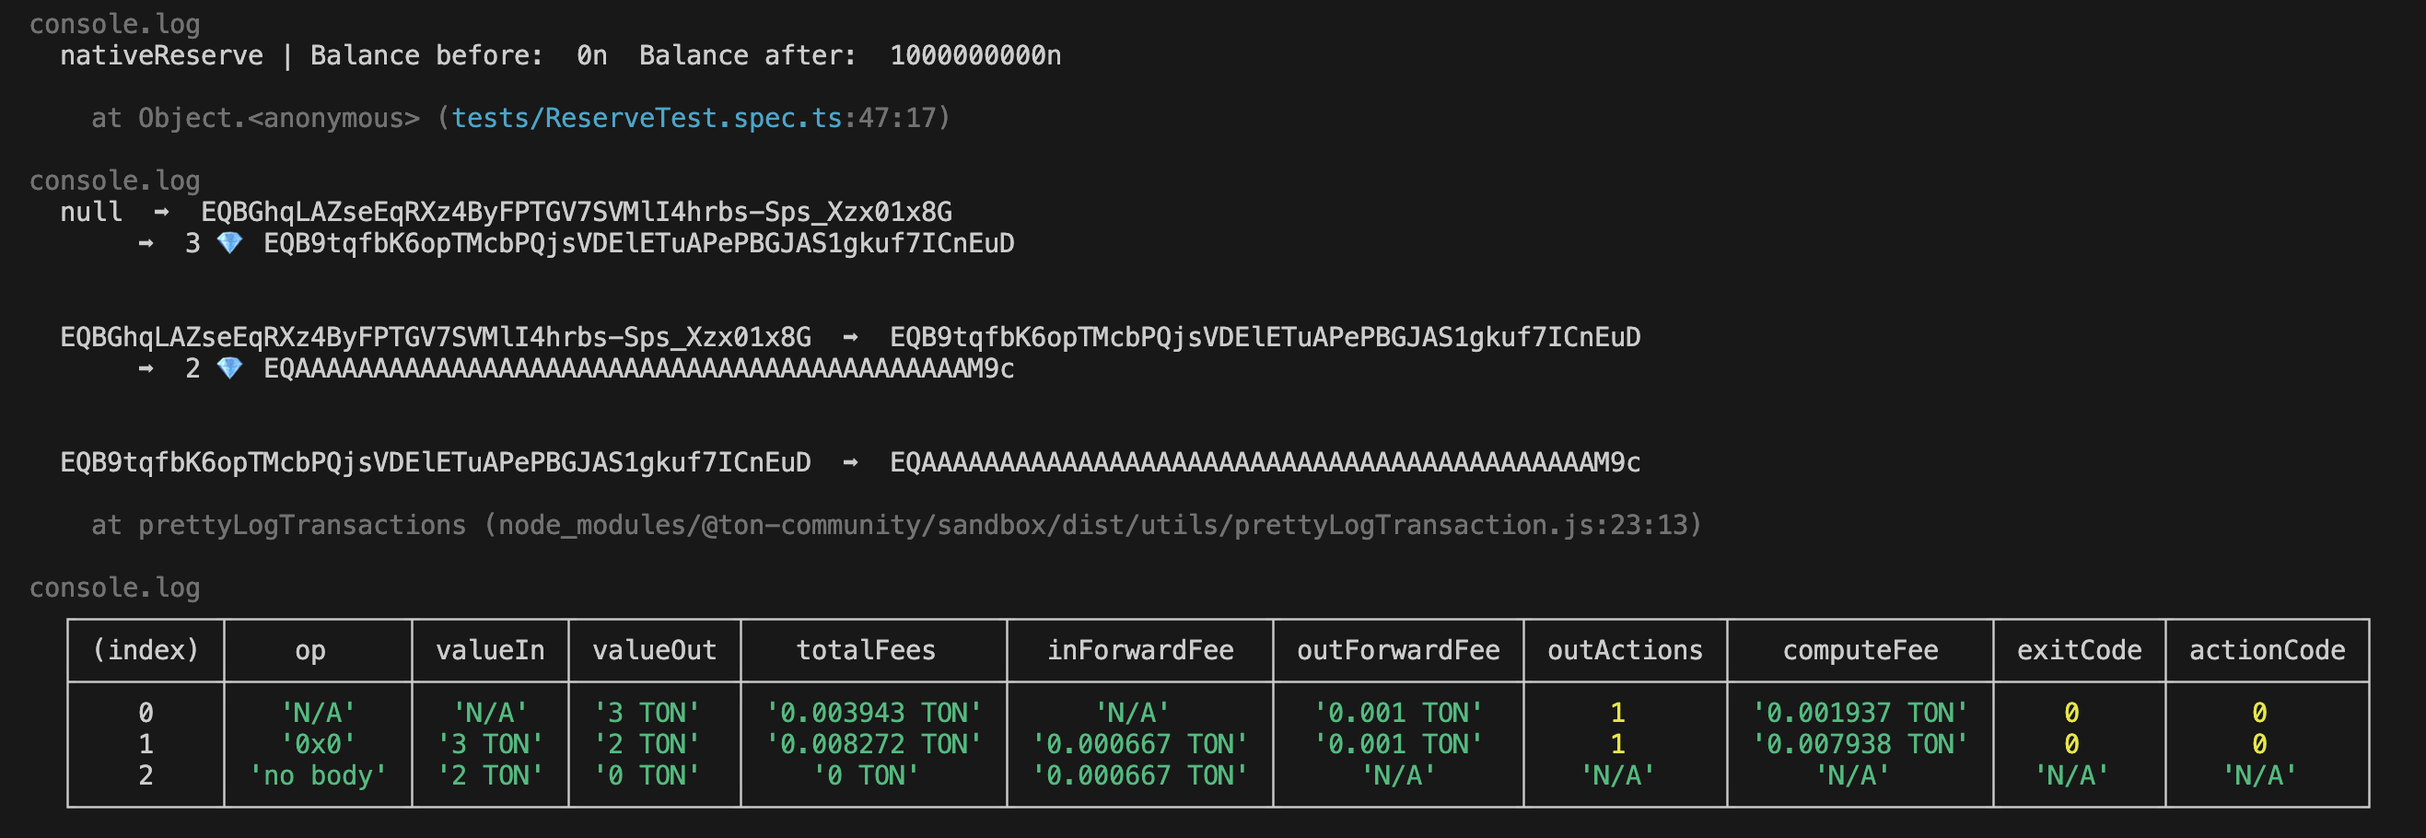
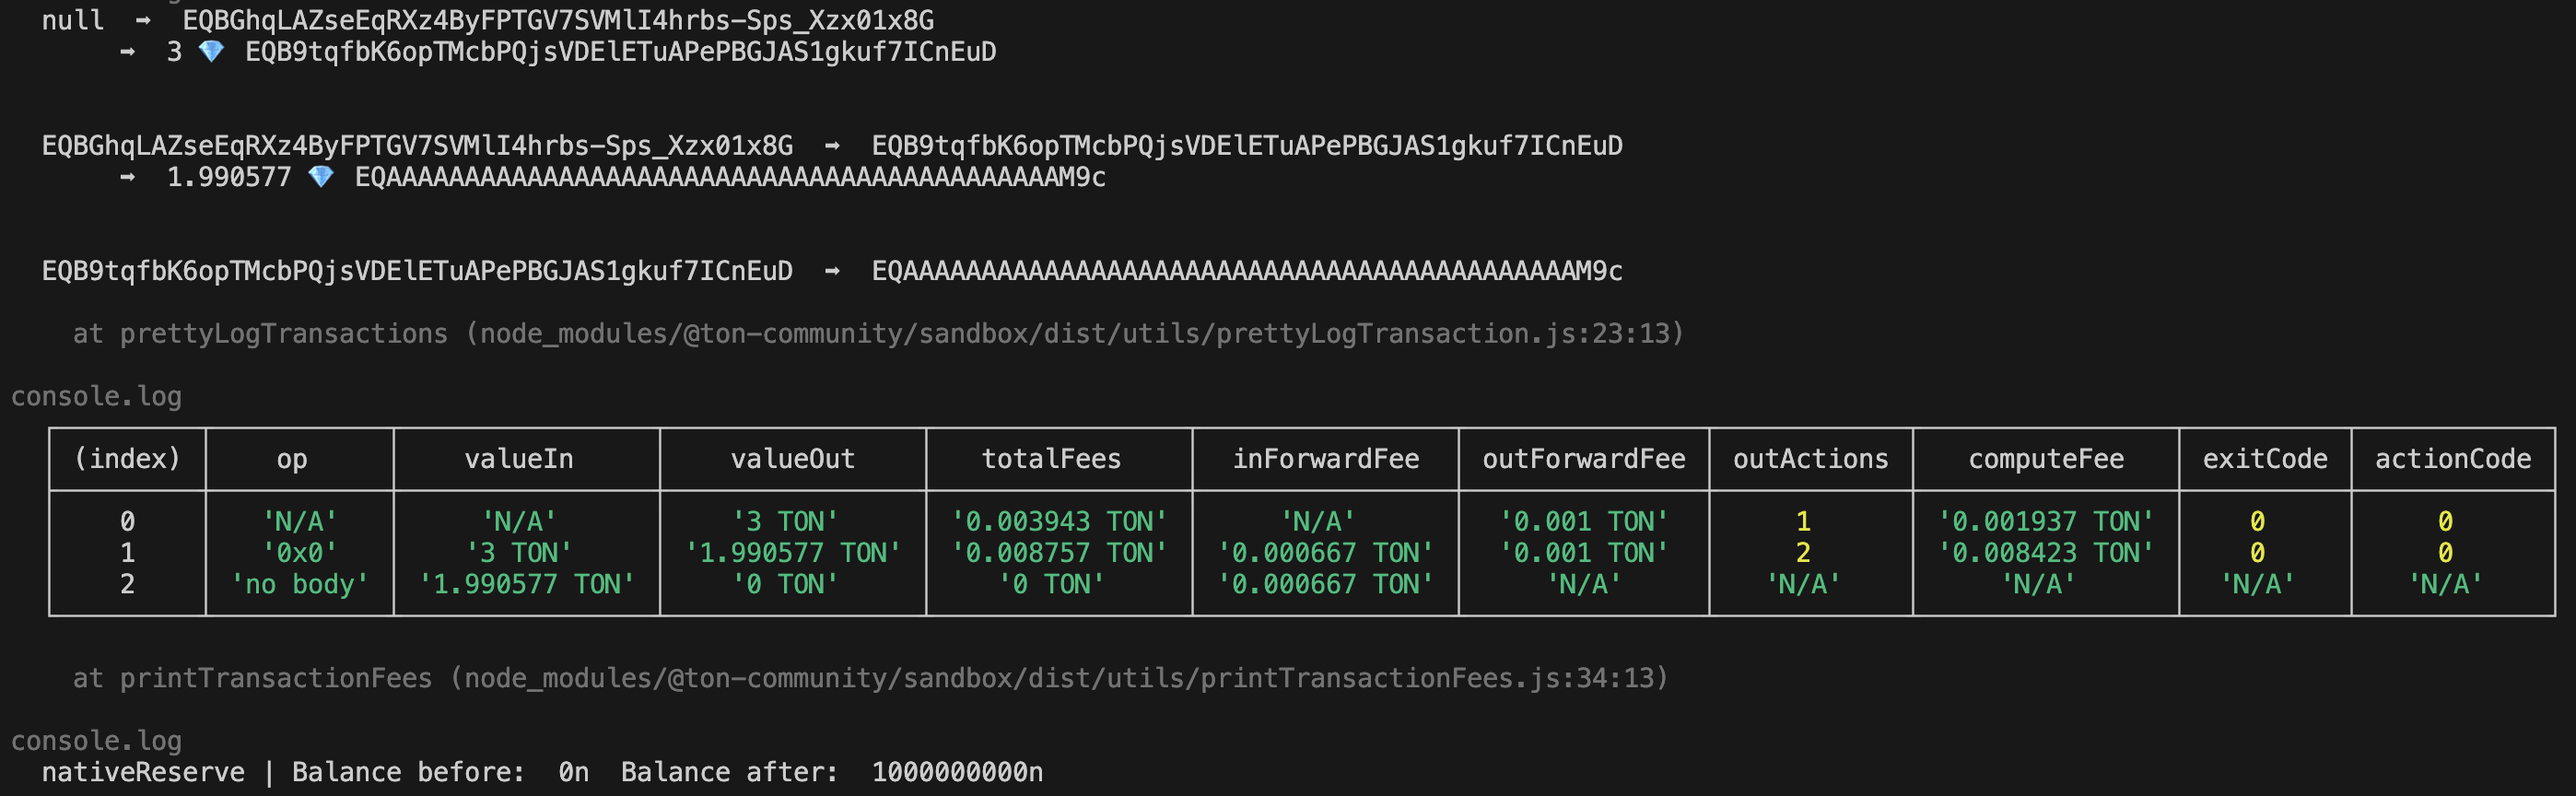
Fix gas calculation and update image file name

Changed region(s): [[0.0, 0.4688, 0.9962, 1.0], [0.0, 0.125, 0.6849, 0.4688], [0.0, 0.0, 0.4358, 0.0938]]

diff --git a/README.md b/README.md
@@ -1,10 +1,11 @@
 # Native Reserve v.s. Directly dwindle from Context
 
-- Native Reserve (gas: 0.00394+0.008757= **0.012697 (expensive)**)
+- Native Reserve (total gas: **0.003943 + 0.008757 = 0.0127  (expensive)**)
   
-    ![nativeReserve](images/nativeReserve.png)
+    <!-- ![nativeReserve](images/nativeReserve.png) -->
+    ![nativeReserve](images/nativereserve.png)
 
-- Directly dwindle from context (gas: 0.003943+0.008272=**0.012215 (cheap)**)
+- Directly dwindle from context (total gas: 0.003943+0.008272=**0.012215 (cheap)**)
   
     ![directly](images/directly.png)
 
